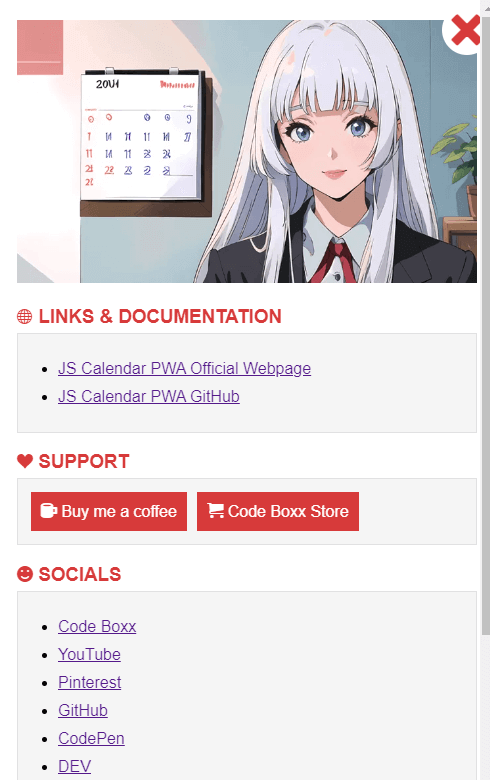
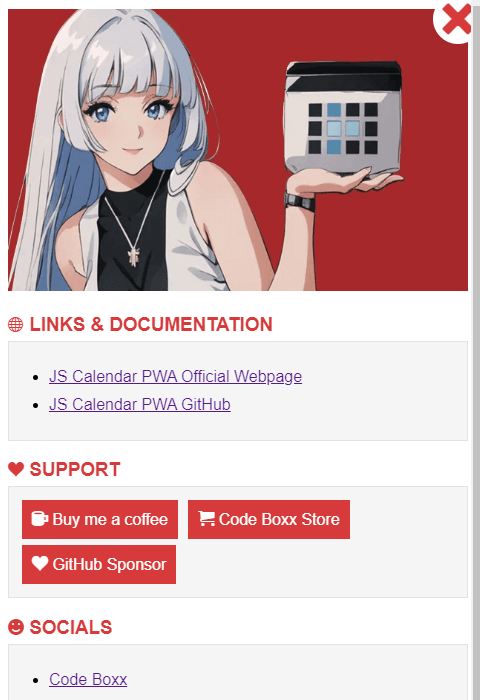
28 Sep 2023

diff --git a/assets/js-calendar.js b/assets/js-calendar.js
@@ -84,6 +84,7 @@ var cal = {
     // (C3) ATTACH CONTROLS
     cal.hMth.onchange = cal.load;
     cal.hYear.onchange = cal.load;
+    document.getElementById("calToday").onclick = () => cal.today();
     document.getElementById("calBack").onclick = () => cal.pshift();
     document.getElementById("calNext").onclick = () => cal.pshift(1);
     document.getElementById("calAdd").onclick = () => cal.show();
@@ -117,9 +118,19 @@ var cal = {
     cal.load();
   },
 
-  // (E) LOAD EVENTS DATA FOR MONTH/YEAR
+  // (E) JUMP TO TODAY
+  today : () => {
+    let now = new Date(), ny = now.getFullYear(), nm = now.getMonth()+1;
+    if (ny!=cal.sYear || (ny==cal.sYear && nm!=cal.sMth)) {
+      cal.hMth.value = nm;
+      cal.hYear.value = ny;
+      cal.load();
+    }
+  },
+
+  // (F) LOAD EVENTS DATA FOR MONTH/YEAR
   load : () => {
-    // (E1) SET SELECTED PERIOD
+    // (F1) SET SELECTED PERIOD
     cal.sMth = +cal.hMth.value;
     cal.sYear = +cal.hYear.value;
     cal.sDIM = new Date(cal.sYear, cal.sMth, 0).getDate();
@@ -130,15 +141,15 @@ var cal = {
     cal.sF = `${cal.sYear}-${m}-01 00:00:00`;
     cal.sL = `${cal.sYear}-${m}-${cal.sDIM} 23:59:59`;
 
-    // (E2) FETCH & DRAW
+    // (F2) FETCH & DRAW
     cal.events = calDB.getPeriod(cal.sF, cal.sL);
     cal.hCB.innerHTML = "";
     cal.draw();
   },
 
-  // (F) DRAW CALENDAR
+  // (G) DRAW CALENDAR
   draw : () => {
-    // (F1) CALCULATE DAY MONTH YEAR
+    // (G1) CALCULATE DAY MONTH YEAR
     // note - jan is 0 & dec is 11 in js
     // note - sun is 0 & sat is 6 in js
     let now = new Date(), // current date
@@ -146,11 +157,11 @@ var cal = {
         nowYear = parseInt(now.getFullYear()), // current year
         nowDay = cal.sMth==nowMth && cal.sYear==nowYear ? now.getDate() : null ;
 
-    // (F2) DRAW CALENDAR ROWS & CELLS
-    // (F2-1) INIT
+    // (G2) DRAW CALENDAR ROWS & CELLS
+    // (G2-1) INIT
     let rowA, rowB, rowC, rowMap = {}, rowNum = 1, cell, cellNum = 1,
 
-    // (F2-2) HELPER - DRAW A NEW ROW
+    // (G2-2) HELPER - DRAW A NEW ROW
     rower = () => {
       rowA = document.createElement("div");
       rowB = document.createElement("div");
@@ -164,7 +175,7 @@ var cal = {
       rowA.appendChild(rowC);
     },
 
-    // (F2-3) HELPER - DRAW A NEW CELL
+    // (G2-3) HELPER - DRAW A NEW CELL
     celler = day => {
       cell = document.createElement("div");
       cell.className = "calCell";
@@ -187,10 +198,10 @@ var cal = {
       rowC.appendChild(cell);
     };
 
-    // (F2-4) RESET CALENDAR
+    // (G2-4) RESET CALENDAR
     cal.hCB.innerHTML = ""; rower();
 
-    // (F2-5) BLANK CELLS BEFORE START OF MONTH
+    // (G2-5) BLANK CELLS BEFORE START OF MONTH
     if (cal.mon && cal.sFD != 1) {
       let blanks = cal.sFD==0 ? 7 : cal.sFD ;
       for (let i=1; i<blanks; i++) { celler(); cellNum++; }
@@ -199,7 +210,7 @@ var cal = {
       for (let i=0; i<cal.sFD; i++) { celler(); cellNum++; }
     }
 
-    // (F2-6) DAYS OF THE MONTH
+    // (G2-6) DAYS OF THE MONTH
     for (let i=1; i<=cal.sDIM; i++) {
       rowMap[i] = { r : rowNum, c : cellNum };
       celler(i);
@@ -207,7 +218,7 @@ var cal = {
       cellNum++;
     }
 
-    // (F2-7) BLANK CELLS AFTER END OF MONTH
+    // (G2-7) BLANK CELLS AFTER END OF MONTH
     if (cal.mon && cal.sLD != 0) {
       let blanks = cal.sLD==6 ? 1 : 7-cal.sLD;
       for (let i=0; i<blanks; i++) { celler(); cellNum++; }
@@ -217,9 +228,9 @@ var cal = {
       for (let i=0; i<blanks; i++) { celler(); cellNum++; }
     }
 
-    // (F3) DRAW EVENTS
+    // (G3) DRAW EVENTS
     if (Object.keys(cal.events).length > 0) { for (let [id,evt] of Object.entries(cal.events)) {
-      // (F3-1) EVENT START & END DAY
+      // (G3-1) EVENT START & END DAY
       let sd = new Date(evt.s),
           ed = new Date(evt.e);
       if (sd.getFullYear() < cal.sYear) { sd = 1; }
@@ -227,7 +238,7 @@ var cal = {
       if (ed.getFullYear() > cal.sYear) { ed = cal.sDIM; }
       else { ed = ed.getMonth()+1 > cal.sMth ? cal.sDIM : ed.getDate(); }
 
-      // (F3-2) "MAP" ONTO HTML CALENDAR
+      // (G3-2) "MAP" ONTO HTML CALENDAR
       cell = {}; rowNum = 0;
       for (let i=sd; i<=ed; i++) {
         if (rowNum!=rowMap[i]["r"]) {
@@ -237,7 +248,7 @@ var cal = {
         if (cell[rowNum]) { cell[rowNum]["e"] = rowMap[i]["c"]; }
       }
 
-      // (F3-3) DRAW HTML EVENT ROW
+      // (G3-3) DRAW HTML EVENT ROW
       for (let [r,c] of Object.entries(cell)) {
         let o = c.s - 1 - ((r-1) * 7), // event cell offset
             w = c.e - c.s + 1; // event cell width
@@ -255,7 +266,7 @@ var cal = {
     }}
   },
   
-  // (G) SHOW EVENT FORM
+  // (H) SHOW EVENT FORM
   show : id => {
     if (id) {
       cal.hfID.value = id;
@@ -273,9 +284,9 @@ var cal = {
     cal.transit(() => cal.hFormWrap.show());
   },
 
-  // (H) SAVE EVENT
+  // (I) SAVE EVENT
   save : async () => {
-    // (H1) COLLECT DATA
+    // (I1) COLLECT DATA
     //  data[0] = start date
     //  data[1] = end date
     //  data[2] = event text
@@ -290,20 +301,20 @@ var cal = {
     ];
     if (cal.hfID.value != "") { data.push(+cal.hfID.value); }
 
-    // (H2) DATE CHECK
+    // (I2) DATE CHECK
     if (new Date(data[0]) > new Date(data[1])) {
       alert("Start date cannot be later than end date!");
       return false;
     }
 
-    // (H3) SAVE
+    // (I3) SAVE
     await calDB.save(data);
     cal.transit(() => cal.hFormWrap.close());
     cal.load();
     return false;
   },
 
-  // (I) DELETE EVENT
+  // (J) DELETE EVENT
   del : async () => { if (confirm("Delete Event?")) {
     await calDB.del(cal.hfID.value);
     cal.transit(() => cal.hFormWrap.close());

diff --git a/js-calendar.html b/js-calendar.html
@@ -32,6 +32,7 @@
     <!-- (A) HEADER -->
     <div id="calHead">
       <div id="calPeriod">
+        <button id="calToday" type="button" class="icon-pushpin"></button>
         <button id="calBack" type="button" class="icon-circle-left"></button>
         <select id="calMonth"></select>
         <input id="calYear" type="number">
@@ -104,6 +105,9 @@
         </a>
         <a href="https://payhip.com/codeboxx" class="aboutBtn" target="_blank">
           <i class="ico-sm icon-cart"></i> Code Boxx Store
+        </a>
+        <a href="https://github.com/sponsors/code-boxx" class="aboutBtn" target="_blank">
+          <i class="ico-sm icon-heart"></i> GitHub Sponsor
         </a>
       </div>
 

diff --git a/README.md b/README.md
@@ -1,5 +1,5 @@
-## JS EVENTS CALENDAR PWA
-This is an events calendar made with pure HTML, CSS, JS, and web assembly to support SQLite. It is a tutorial/project/experiment to showcase the capabilities of modern web apps and Progressive Web App (PWA) - Yes, this is installable and serverless. Capable of running completely offline.
+## JAVASCRIPT EVENTS CALENDAR PWA
+This is an events calendar made with pure HTML, CSS, JS, and web assembly to support SQLite. It is a tutorial/project/experiment to showcase the capabilities of modern Progressive Web App (PWA) - Yes, this is installable and serverless. Capable of running completely offline.
 <br><br>
 
 ## :camera: SCREENSHOTS
